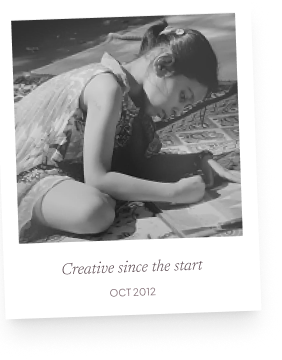
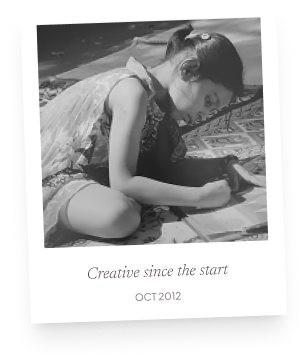
Fix React Router refresh on Vercel

diff --git a/src/homecomponents/Face.jsx b/src/homecomponents/Face.jsx
@@ -5,22 +5,38 @@ const Face = () => {
         <div className='flex flex-row justify-center gap-8 mt-20'>
             <div className='flex flex-col gap-2'>
                 <img className='w-fit ' src="Music Player Widget.png" alt="" />
-                <div className='w-[284px] h-[272px] rounded-[48px] bg-[#FEC4DE4D] flex flex-col items-center justify-center    '>
-                    <h2 className='text-[24px] font-newsreader italic font-[300] mr-20 py-5'>Contact Me</h2>
-                    <span className="flex items-center gap-3 mr-26">
-                        <img src="EMAIL.png" alt="" />
-                        <p className="font-jakarta text-[14px] text-[#7B4E63]">EMAIL</p>
-                    </span>
+                <div className="w-[284px] h-[272px] rounded-[48px] bg-[#FEC4DE4D] flex flex-col justify-center px-8">
+                    <h2 className="text-[24px] font-newsreader italic font-[300] mb-8">
+                        Contact Me
+                    </h2>
 
-                    <span className="flex items-center gap-3 mr-20">
-                        <img src="LINKEDIN.png" alt="" />
-                        <p className="font-jakarta text-[14px] text-[#7B4E63]">LINKEDIN</p>
-                    </span>
+                    <a
+                        href="mailto:shreya.u22159@cept.ac.in"
+                        className="flex items-center gap-3 mb-5 text-[#7B4E63] hover:text-[#F285BD] transition-colors duration-300"
+                    >
+                        <img src="EMAIL.png" alt="Email" />
+                        <span className="font-jakarta text-[14px]">EMAIL</span>
+                    </a>
 
-                    <span className="flex items-center gap-3 mr-20">
-                        <img src="BEHANCE.png" alt="" />
-                        <p className="font-jakarta text-[14px] text-[#7B4E63]">BEHANCE</p>
-                    </span>
+                    <a
+                        href="https://www.linkedin.com/in/shreya-agrawal-b855a6341/"
+                        target="_blank"
+                        rel="noopener noreferrer"
+                        className="flex items-center gap-3 mb-5 text-[#7B4E63] hover:text-[#F285BD] transition-colors duration-300"
+                    >
+                        <img src="LINKEDIN.png" alt="LinkedIn" />
+                        <span className="font-jakarta text-[14px]">LINKEDIN</span>
+                    </a>
+
+                    <a
+                        href="https://www.behance.net/shreyaagrawal33"
+                        target="_blank"
+                        rel="noopener noreferrer"
+                        className="flex items-center gap-3 text-[#7B4E63] hover:text-[#F285BD] transition-colors duration-300"
+                    >
+                        <img src="BEHANCE.png" alt="Behance" />
+                        <span className="font-jakarta text-[14px]">BEHANCE</span>
+                    </a>
                 </div>
             </div>
             {/* 2nd div which is face photo */}
@@ -31,16 +47,16 @@ const Face = () => {
             {/* 3rd div content div  */}
             <div className='w-[244px] h-[576px]  flex flex-col gap-4 '>
                 <div className='leading-1.0'>
-                <h2 className='font-newsreader text-[60px] italic font-[300] leading-[100%]'>Curating <br /></h2>
-                 <h2 className='text-[60px] leading-[100%] italic text-[#9A3C70]  '>Soulful</h2>
+                    <h2 className='font-newsreader text-[60px] italic font-[300] leading-[100%]'>Curating <br /></h2>
+                    <h2 className='text-[60px] leading-[100%] italic text-[#9A3C70]  '>Soulful</h2>
                     <h2 className='text-[60px] leading-[100%] italic text-[#9A3C70] '>Stories.</h2>
-                    </div>
+                </div>
                 <p className='font-jakarta leading-[29.25px]'>I believe every pixel should have a purpose and every layout should tell a story.
                 </p>
                 <p className='font-jakarta leading-[29.25px]'>For me, what matters most is understanding the core of an idea and transforming it into an experience that feels worthwhile for others</p>
                 <span className='font-jakarta text-[12px] tracking-[1.2px] mt-10 radius-[2px] w-[143.94px] h-[24px] flex justify-center items-center font-[400] leading-[12px] bg-[#c2baa7]'>CURRENT MOOD</span>
-               <div className='w-auto flex  gap-3 mt-1'> <img className='w-fit' src="cup.png" alt="" /> <span className='font-newsreader [300] italic text-[20px] leading-[28px ] text-[#9A3C70] '>Third cup of latte...</span>
-               </div>
+                <div className='w-auto flex  gap-3 mt-1'> <img className='w-fit' src="cup.png" alt="" /> <span className='font-newsreader [300] italic text-[20px] leading-[28px ] text-[#9A3C70] '>Third cup of latte...</span>
+                </div>
             </div>
         </div>
     )

diff --git a/src/homecomponents/Name.jsx b/src/homecomponents/Name.jsx
@@ -6,7 +6,7 @@ const Name = () => {
 
       {/* Subtitle */}
       <h4 className="text-xs font-jakarta tracking-[0.2em] text-[#9A3C70]">
-        MULTIDISCLIPINARY DESIGNER & STORYTELEER
+        MULTIDISCLIPINARY DESIGNER & STORYTELLER
       </h4>
 
       {/* Name */}
